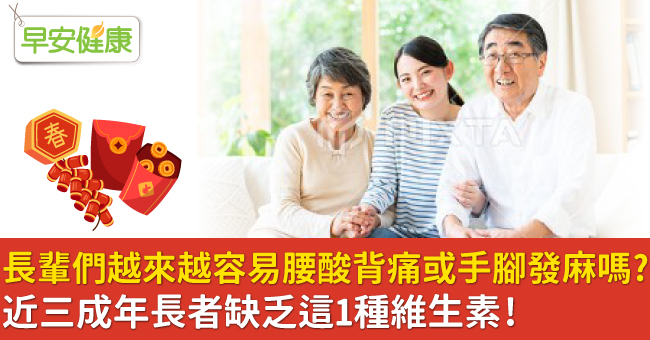
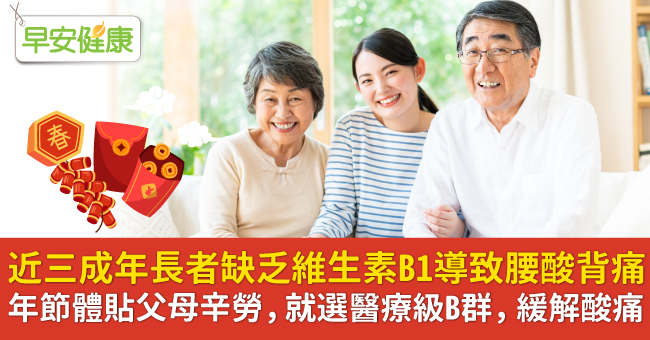
過年推廣頁修改文案 #2022-01-12

diff --git a/2022cny.html b/2022cny.html
@@ -153,24 +153,29 @@
                             <p>隨著年齡增長，父母或身邊的長輩是否越來越常抱怨腰酸背痛、肩頸僵硬或手腳發麻，甚至反覆發作影響日常作息呢？這些症狀很可能都是維生素 B1 缺乏造成的！趁著過年送上孝心，讓父母擺脫維生素B1不足的困擾，快來看看如何選擇有效的B1補充方式。</p>
                         </section>
 
-                        <section g-page="blog-02_top" data-aos="fade-up" data-aos-duration="1000" data-aos-once="true" data-aos-delay="500">
-                            <h4>維生素 B1 是細胞能量轉換的關鍵，但近三成年長者卻面臨 B1 缺乏或臨界缺乏的狀況</h4>
+                        <section g-page="2022cny_top" data-aos="fade-up" data-aos-duration="1000" data-aos-once="true" data-aos-delay="500">
+                            <h4>維生素 B1 是細胞能量轉換的關鍵，但近三成<sup>*</sup> 年長者卻面臨 B1 缺乏或臨界缺乏的狀況</h4>
                             <p>維生素 B1 可以把食物中的碳水化合物及蛋白質等營養素，轉化為能量、幫助代謝，在能量轉換過程中擔任重要的形成輔酶的角色，具備包含舒緩肌肉與神經疲勞等多種功用。但 B1 是水溶性的維生素，常會因為烹煮方式或個人吸收問題而攝取不足。</p>
                             <p>同時隨著年紀增加，人體對維生素的吸收不如以往，更容易造成體內維生素 B1 不足。根據調查顯示，台灣 65 歲以上男性有 31% 處於維生素 B1 缺乏或是臨界缺乏，女性則有 29%。</p>
-                            <!-- <p>當維生素 B1 不足時，細胞的能量轉換就會出現問題，導致神經傳導速度減緩與營養、代謝功能阻礙，隨著 B1 缺乏的程度逐漸增加，就會產生疲勞、酸痛，最後導致末梢發麻等漸進症狀。</p> -->
                         </section>
 
-                        <section g-page="blog-02_mid" data-aos="fade-up" data-aos-duration="1000" data-aos-once="true" data-aos-delay="500">
-                            <h4>含『維生素 B1 誘導體 TTFD』，比一般 B1 更容易被人體吸收及利用</h4>
+                        <section g-page="2022cny_mid" data-aos="fade-up" data-aos-duration="1000" data-aos-once="true" data-aos-delay="500">
+                            <h4>自日本含 TTFD<sup>**</sup> 的醫藥級 B 群 維持體內高濃度 B1<sup>***</sup>，有效緩解疲勞與酸痛</h4>
                             <p>若家中長輩經常腰酸背痛、手腳發麻，在排除疾病、退化等因素之後，可以優先考慮替長輩補充 B 群，維持體內維生素 B1 充足來改善酸痛與末梢發麻問題。</p>
                             <p>因為維生素 B1 為水溶性，容易在食物烹煮過程中流失，同時人體吸收不易，挑選 B 群補充劑時，選擇醫療級 B 群才能提高補充效率。像日本等醫藥先進的國家便針對維生素 B1 結構做出改進，其中最著名的就是含「維生素 B1 誘導體 TTFD」。</p>
                             <p>水溶性的維生素 B1 如果沒有運輸蛋白（輸送載體），就無法通過脂質組成的小腸細胞膜；但是脂溶性的 TTFD 無需運輸蛋白，就能通過細胞膜進入人體或血液，更容易被人體腸道吸收，能長時間維持液中維生素 B1 高濃度，也更容易進入肌肉或神經組織、有效作用快速到達全身。且維生素 B1 誘導體 TTFD 能在人體內大量產生「活化型維生素 B1」，彌補維生素 B1 難被吸收的特點，從根源幫助身體紓解酸痛以及手腳發麻 。</p>
                             <img src="images/blogs/pic_smaple-cny.jpg" alt="*">
                         </section>
 
-                        <section g-page="blog-02_down" data-aos="fade-up" data-aos-duration="1000" data-aos-once="true" data-aos-delay="500">
+                        <section g-page="2022cny_down" data-aos="fade-up" data-aos-duration="1000" data-aos-once="true" data-aos-delay="500">
                             <h4>過年送上含『TTFD』的醫療級B群，讓長輩們邁向不酸不麻的樂齡生活</h4>
                             <p>每天服用維生素Ｂ群能有效緩解長輩們的酸痛、末梢發麻症狀，且維生素 B 為水溶性，較不需要擔心有服用過量的問題。尤其是含有『維生素B1誘導體TTFD』的醫療級B群，更有效地補充體內缺乏的 B1，趁著年節體貼父母平日的辛勞，送上醫療級B群，讓長輩們享受不酸不麻的健康人生！</p>
+                        </section>
+
+                        <section id="page-note">
+                            <p>* 硫胺素缺乏：流行病學、病理生理學、臨床特徵，及實驗室檢查(陳國東,蘇世斌)</p>
+                            <p>** TTFD 即是 維生素B1誘導體（Fursultiamine）(Bio Clinica Vol.34 , No.14 , DEC 2019); <a href="https://pubchem.ncbi.nlm.nih.gov/compound/Fursultiamine#section=Depositor-Supplied-Synonyms" target="_blank" title="">https://pubchem.ncbi.nlm.nih.gov/compound/Fursultiamine#section=Depositor-Supplied-Synonyms</a></p>
+                            <p>*** 維生素 B1 誘導體（TTFD, Fursultiamine）與維生素 B1（Thiamine）相比，顯示其可長時間維持組織間維生素 B1 的高濃度。(Bio Clinica Vol.34 , No.14 , DEC 2019)</p>
                         </section>
                     </div>
                 </div>
